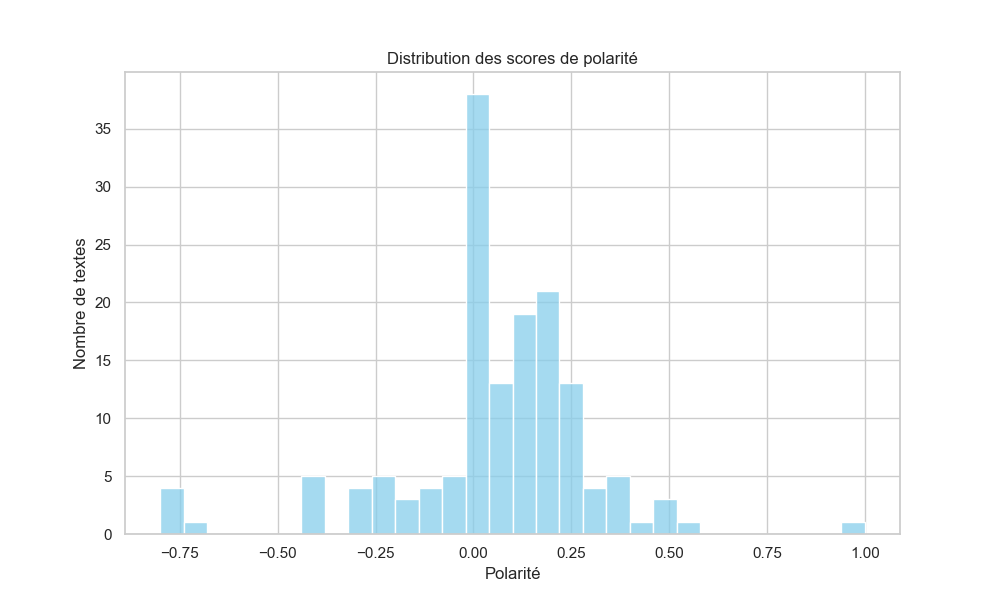
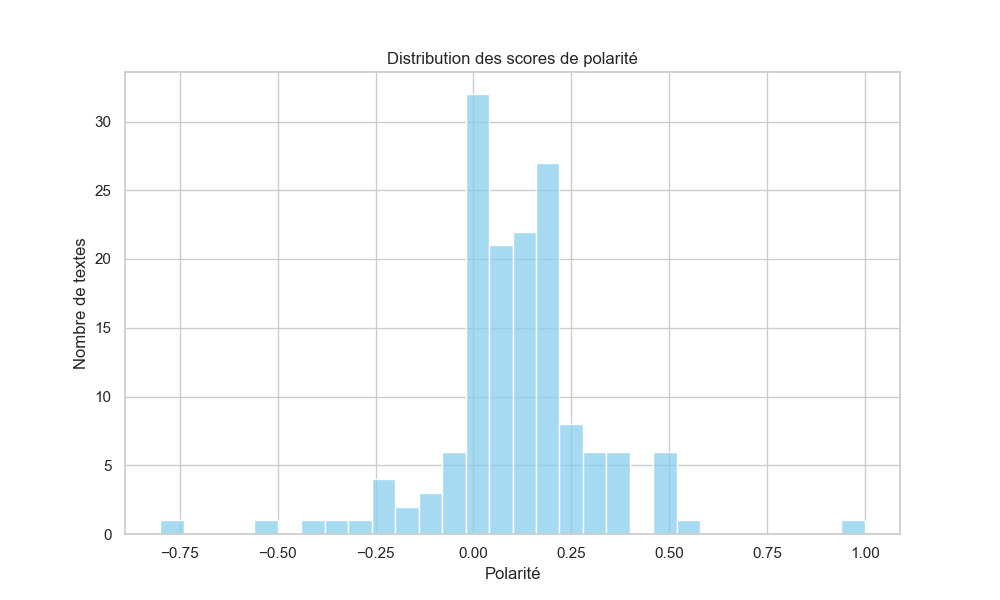
Update

diff --git a/8. analyse_sentiments.py b/8. analyse_sentiments.py
@@ -5,7 +5,7 @@ import seaborn as sns
 
 # Charger le fichier CSV depuis GitHub
 url = 'https://raw.githubusercontent.com/fmadore/Musulmanes-presse/master/preprocessed_corpus.csv'
-df = pd.read_csv(url, usecols=['Content'])
+df = pd.read_csv(url, usecols=['Processed_Content'])
 
 # Analyse des sentiments
 def analyse_sentiment(text):
@@ -15,7 +15,7 @@ def analyse_sentiment(text):
     except:
         return None
 
-df[['Polarity', 'Subjectivity']] = df['Content'].apply(analyse_sentiment)
+df[['Polarity', 'Subjectivity']] = df['Processed_Content'].apply(analyse_sentiment)
 
 sns.set(style="whitegrid")
 
